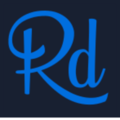
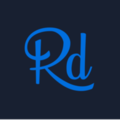
made images responsive

diff --git a/client/src/componenents/Hero/Hero.module.css b/client/src/componenents/Hero/Hero.module.css
@@ -3,7 +3,7 @@
   flex-direction: column;
   justify-content: center;
   height: 80vh;
-  min-height: 900%;
+  min-height: 100%;
   max-height: 1800px;
   padding: 1rem 1rem 4rem;
   text-align: left;
@@ -12,7 +12,7 @@
 
 .hero h1 {
   font-size: clamp(40px, 8vw, 80px);
-  font-family: "Quicksand", sans-serif;
+ font-weight: 600;
 }
 
 .hero h1 div h1 {
@@ -50,7 +50,7 @@
   width: 10rem;
   text-align: center;
   display: block;
-  font-size: 1.1rem;
+  font-size: 1rem;
   color: var(--blue);
   border: 2px solid var(--blue);
   text-decoration: none;
@@ -99,6 +99,7 @@
   .hero {
     padding: 0rem 5rem;
     height: 1500px;
+    min-height: 700px;
     max-height: 85vh;
   }
 

diff --git a/client/src/index.css b/client/src/index.css
@@ -15,7 +15,7 @@
   margin: 0;
   padding: 0;
   box-sizing: border-box;
-  font-family: "Nunito Sans", sans-serif;
+  font-family: "Quicksand", sans-serif;
 }
 
 button {
@@ -29,12 +29,19 @@ img {
 }
 body {
   margin: 0;
-  font-family: "Nunito Sans", sans-serif;
   -webkit-font-smoothing: antialiased;
   -moz-osx-font-smoothing: grayscale;
   background-color: var(--black);
   color: var(--primary-text-color);
   line-height: 1.3;
+}
+
+p {
+  font-weight: 300;
+}
+
+h1 {
+  font-weight: 500;
 }
 
 html {

diff --git a/client/src/componenents/Contact/Contact.module.css b/client/src/componenents/Contact/Contact.module.css
@@ -2,7 +2,7 @@
   padding: 2rem 1rem;
 }
 
-.wrapper p{
+.wrapper p {
   line-height: 30px;
 }
 
@@ -35,6 +35,7 @@
 
 .info .contact p {
   font-size: 0.7rem;
+  font-weight: 600;
 }
 
 .formcontainer form {
@@ -131,7 +132,7 @@
     padding: 5rem 10rem;
   }
 
-  .formtitle p{
+  .formtitle p {
     margin-bottom: 1.5rem;
   }
 
@@ -146,7 +147,7 @@
 
 @media screen and (min-width: 600px) and (max-width: 1000px) {
   .wrapper {
-    padding: 10rem 5rem;
+    padding: 5rem 5rem;
   }
 
   .formtitle p {

diff --git a/client/src/componenents/Projects/Project.module.css b/client/src/componenents/Projects/Project.module.css
@@ -14,7 +14,7 @@
 .project {
   position: relative;
   margin: 0.2rem;
-  width: 98%;
+  width: 100%;
   height: 100%;
 }
 
@@ -31,7 +31,7 @@
   color: var(--primary-text-color);
   padding: 0.5rem 1rem;
   height: 100%;
-  width: 100%;
+  width: 98%;
   position: absolute;
   top: 0;
   bottom: 0;
@@ -117,7 +117,7 @@
 
 @media screen and (min-width: 600px) and (max-width: 1000px) {
   .container {
-    padding: 10rem 5rem;
+    padding: 5rem 5rem;
   }
 
   .projectinfo h2 {

diff --git a/client/src/componenents/ImageWithOverlay/ImageWithOverlay.module.css b/client/src/componenents/ImageWithOverlay/ImageWithOverlay.module.css
@@ -1,20 +1,24 @@
 .wrapper {
   width: 100%;
   height: 100%;
+  top: 0;
+  left: 0;
+  bottom: 0;
+  right: 0;
   position: relative;
 }
 
 .wrapper img {
-  width: 100%;
-  height: 100%;
+  width: 98%;
+  height: 180px;
   object-fit: cover;
   border-radius: 5px;
 }
 
 .overlay {
   position: absolute;
-  height: 100%;
-  width: 100%;
+  height: 180px;
+  width: 98%;
   top: 0%;
   bottom: 0%;
   right: 0%;

diff --git a/client/src/componenents/About/About.module.css b/client/src/componenents/About/About.module.css
@@ -8,22 +8,19 @@
 
 .about p {
   padding: 0.5rem 0;
-  line-height: 30px;
+  line-height: 26px;
+  font-size: 14px;
 }
 
 @media screen and (min-width: 600px) {
   .about {
     padding: 2rem 10rem;
   }
-
-  /* .about p {
-    line-height: 2rem;
-  } */
 }
 
 @media screen and (min-width: 600px) and (max-width: 1000px) {
   .about {
-    padding: 10rem 5rem;
+    padding: 5rem 5rem;
   }
 
   .about p {

diff --git a/client/src/componenents/Hero/Hero.js b/client/src/componenents/Hero/Hero.js
@@ -20,7 +20,7 @@ const Hero = () => {
         </p>
       </FadeIn>
       <FadeIn duration={0.3} startPosition={50} endPosition={0} delay={0.9}>
-        <a href="mailto:dannirolands@gmail.com">Contact Me</a>
+        <a href="mailto:dannirolands@gmail.com">Get In Touch</a>
       </FadeIn>
     </div>
   );

diff --git a/client/src/componenents/Navbar/Navbar.module.css b/client/src/componenents/Navbar/Navbar.module.css
@@ -27,6 +27,14 @@
   color: var(--primary-text-color);
 }
 
+.navbar nav ul li a:hover,
+.navbar nav ul li a:active,
+.navbar nav ul li a:focus{
+  border-bottom: 0.18rem solid var(--blue);
+}
+
+
+
 .navbar button {
   z-index: 9999;
   color: var(--blue);

diff --git a/client/src/componenents/Sidebar/Sidebar.module.css b/client/src/componenents/Sidebar/Sidebar.module.css
@@ -47,6 +47,12 @@
   color: var(--primary-text-color);
 }
 
+.sidebar nav ul li a:hover,
+.sidebar nav ul li a:active,
+.sidebar nav ul li a:focus{
+  border-bottom: 0.18rem solid var(--blue);
+}
+
 .sidebar .social_links {
   flex-direction: row;
 }

diff --git a/client/src/componenents/Footer/Footer.module.css b/client/src/componenents/Footer/Footer.module.css
@@ -23,6 +23,7 @@
 .copyright {
   text-align: center;
   font-size: small;
+  font-weight: bold;
   padding: 0.5rem 1rem;
   color: var(--primary-text-color);
 }

diff --git a/client/src/componenents/Skills/Skill.module.css b/client/src/componenents/Skills/Skill.module.css
@@ -36,6 +36,6 @@
 
 @media screen and (min-width: 600px) and (max-width: 1000px) {
   .container {
-    padding:10rem 5rem;
+    padding: 5rem 5rem;
   }
 }
